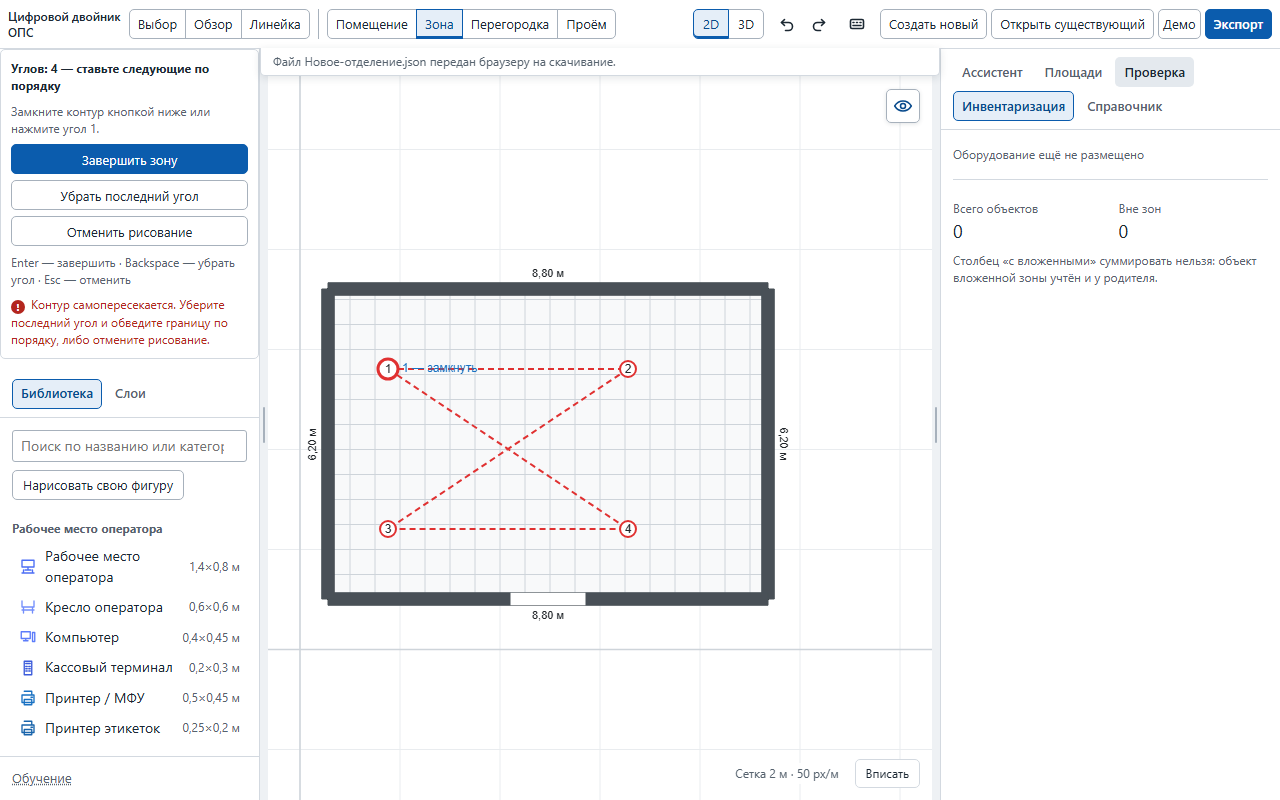
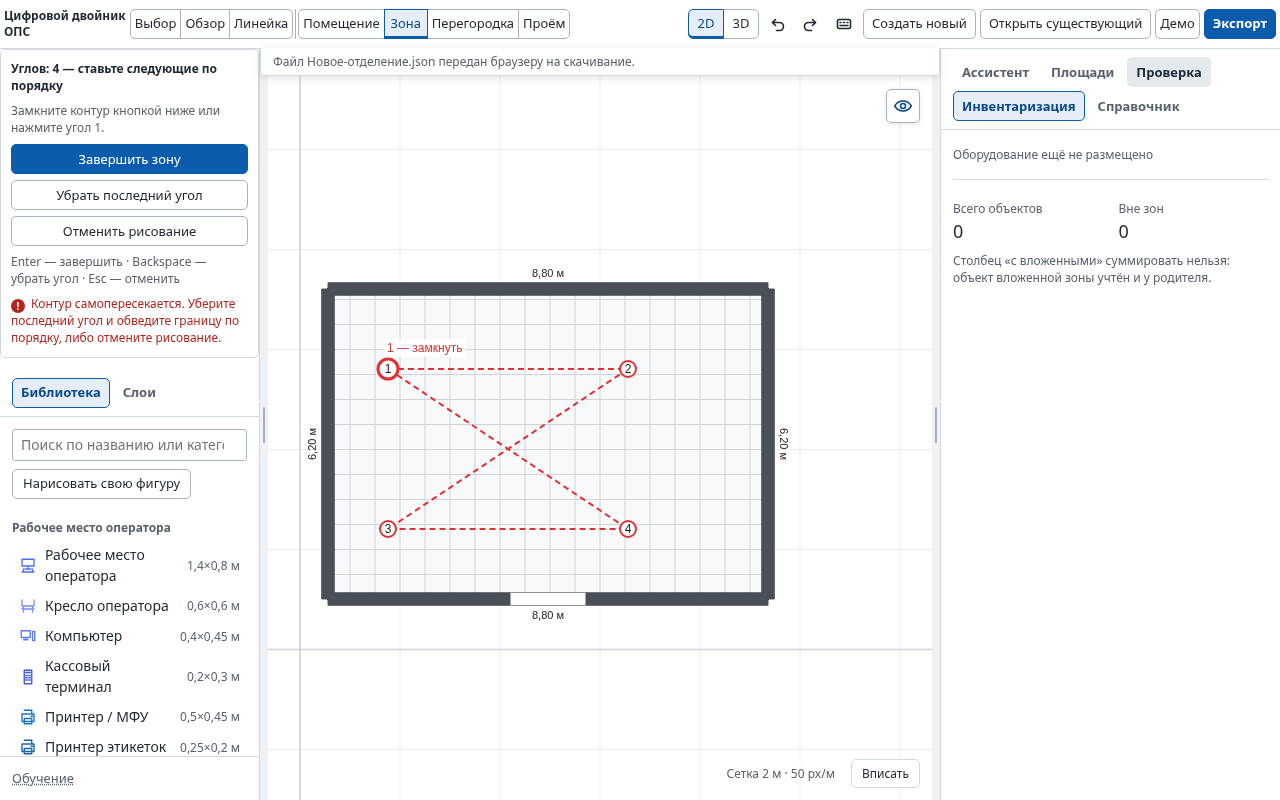
editor: Backspace вне черновика больше не удаляет выделение, подпись первого угла читаема, JSON round-trip зоны в e2e (#43)
Регрессия из ревью: перехват Backspace ограничен draft !== null — вооружённый,
но ещё не начатый инструмент зоны/помещения/фигуры не мешает удалению
выделенного объекта. Ключ сброса черновика больше не включает plan.name —
переименование плана во время рисования не роняет углы. removeLast сбрасывает
курсор вместе с опустевшим черновиком. Подпись «1 — замкнуть»/«Начало» поднята
над первым углом и получила непрозрачную плашку — раньше её перечёркивало
первое ребро контура; цвет подписи согласован с цветом контура. Добавлен
e2e-сценарий, реально сравнивающий polygon после экспорта и повторного
открытия файла (docs/verification заявлял это раньше текста в спеке); снимки
1280/1440 перезаписываются только под UPDATE_SNAPSHOTS=1.

Claude-Session: https://claude.ai/code/session_01XC1BsdQNtgS7Zdfnf1Mxm2

diff --git a/tests/e2e/zone-drawing.spec.ts b/tests/e2e/zone-drawing.spec.ts
@@ -1,11 +1,13 @@
 import { readFileSync } from 'node:fs';
 import { test, expect, exportPlan, type Page } from './fixtures';
 
-async function save(page: Page): Promise<{ zones: { polygon: number[][] }[] }> {
+async function save(page: Page): Promise<{ zones: { polygon: number[][] }[] } & { path: string }> {
   const pending = page.waitForEvent('download');
   await exportPlan(page, 'JSON');
   const file = await pending;
-  return JSON.parse(readFileSync((await file.path())!, 'utf8')) as { zones: { polygon: number[][] }[] };
+  const path = (await file.path())!;
+  const json = JSON.parse(readFileSync(path, 'utf8')) as { zones: { polygon: number[][] }[] };
+  return { ...json, path };
 }
 
 for (const width of [1280, 1440]) {
@@ -31,7 +33,11 @@ for (const width of [1280, 1440]) {
     await controls.getByRole('button', { name: 'Завершить зону' }).click();
     await expect(controls).toContainText('Контур самопересекается');
     expect((await save(page)).zones).toHaveLength(0);
-    await page.screenshot({ path: `docs/verification/2026-09-29-zone-drawing-${width}.png` });
+    // Снимок закоммичен в docs/verification: обычный прогон его не перезаписывает,
+    // обновление — по явному запросу (см. validation.spec.ts, D-315).
+    if (process.env['UPDATE_SNAPSHOTS'] === '1') {
+      await page.screenshot({ path: `docs/verification/2026-09-29-zone-drawing-${width}.png` });
+    }
     await controls.getByRole('button', { name: 'Убрать последний угол' }).focus();
     await page.keyboard.press('Enter');
     await expect(controls).toContainText('Углов: 3');
@@ -49,3 +55,41 @@ for (const width of [1280, 1440]) {
     expect((await save(page)).zones).toHaveLength(0);
   });
 }
+
+// #43, п. 1 ревью: docs/verification заявлял «JSON → повторное открытие →
+// совпадение polygon», а спека раньше только экспортировала и считала зоны.
+// Проверяется, что открытый заново экспорт даёт тот же контур, что и до сохранения
+// (как round-trip.spec.ts для объектов).
+test('зона по видимым действиям переживает файл: JSON → повторное открытие → тот же контур', async ({ page }) => {
+  await page.setViewportSize({ width: 1280, height: 800 });
+  await page.goto('/');
+  await expect(page.getByTestId('editor-canvas')).toBeVisible();
+  const click = async (x: number, y: number) => {
+    const box = await page.locator('.editor-canvas canvas').first().boundingBox();
+    if (box === null) throw new Error('Нет холста');
+    await page.keyboard.down('Alt');
+    await page.mouse.click(box.x + x, box.y + y);
+    await page.keyboard.up('Alt');
+  };
+  await page.getByRole('button', { name: 'Помещение', exact: true }).click();
+  for (const [x, y] of [[60, 240], [500, 240], [500, 550], [60, 550]]) await click(x!, y!);
+  await page.getByRole('button', { name: 'Завершить помещение', exact: true }).click();
+  await page.getByRole('button', { name: 'Зона', exact: true }).click();
+  const controls = page.getByRole('region', { name: 'Рисование контура' });
+  for (const [x, y] of [[120, 320], [360, 320], [360, 480]]) await click(x!, y!);
+  await controls.getByRole('button', { name: 'Завершить зону' }).click();
+
+  const saved = await save(page);
+  expect(saved.zones).toHaveLength(1);
+  const polygon = saved.zones[0]?.polygon;
+  expect(polygon).toHaveLength(3);
+
+  await page.reload();
+  await page.getByTestId('plan-file-input').setInputFiles(saved.path);
+  await expect(page.getByTestId('editor-canvas')).toBeVisible();
+
+  const reopened = await save(page);
+  expect(reopened.zones).toHaveLength(1);
+  // Тот же контур, не просто то же число углов: id, порядок и координаты вершин.
+  expect(reopened.zones[0]?.polygon).toEqual(polygon);
+});

diff --git a/src/features/plan-tools/use-plan-tool-controller.test.ts b/src/features/plan-tools/use-plan-tool-controller.test.ts
@@ -115,6 +115,20 @@ describe('явное завершение и исправление чернов
     hook.rerender({ typeId: 'type-b', epoch: 1 });
     expect(hook.result.current.draft).toBeNull();
   });
+  it('переименование плана во время рисования не сбрасывает углы', () => {
+    const plan = planWith([]);
+    const session: EditorSession = { tool: { kind: 'zone.draw' }, viewport: { origin: [0, 0], scale: 50 }, selection: null, preview: null, focus: null };
+    const hook = renderHook(
+      (document: PlanDocument) => usePlanToolController({ document, session, onCommand: () => ({ ok: true, value: document }) }),
+      { initialProps: plan },
+    );
+    act(() => hook.result.current.handlePointer(down([1, 1])));
+    act(() => hook.result.current.handlePointer(down([3, 1])));
+    expect(hook.result.current.draft).toHaveLength(2);
+    hook.rerender({ ...plan, name: 'Переименованный план' });
+    expect(hook.result.current.draft).toHaveLength(2);
+  });
+
   it('кнопка завершения использует прежнюю проверку и одну команду', () => {
     const { hook, click, commands } = setup({ kind: 'zone.draw' }, planWith([]));
     click([1, 1]); click([3, 1]);
@@ -142,6 +156,18 @@ describe('явное завершение и исправление чернов
     expect(commands).toHaveLength(1);
   });
 
+  it('возврат последнего угла до пустого черновика снимает и курсор рисования', () => {
+    const { hook, click } = setup({ kind: 'zone.draw' }, planWith([]));
+    click([1, 1]);
+    act(() =>
+      hook.result.current.handlePointer({ phase: 'move', point: [2, 2], shift: false, alt: false, button: 0 }),
+    );
+    expect(hook.result.current.cursor).not.toBeNull();
+    act(() => hook.result.current.removeLast());
+    expect(hook.result.current.draft).toBeNull();
+    expect(hook.result.current.cursor).toBeNull();
+  });
+
   it('Backspace убирает угол и не доходит до удаления выбранного объекта', () => {
     const { hook, click, commands } = setup({ kind: 'zone.draw' }, planWith([]));
     click([1, 1]); click([3, 1]);
@@ -161,9 +187,27 @@ describe('явное завершение и исправление чернов
     act(() => hook.result.current.removeLast());
     expect(hook.result.current.draft).toBeNull();
     window.addEventListener('keydown', deleteListener);
-    act(() => window.dispatchEvent(new KeyboardEvent('keydown', { key: 'Backspace', repeat: true, cancelable: true })));
+    const event = new KeyboardEvent('keydown', { key: 'Backspace', repeat: true, cancelable: true });
+    act(() => window.dispatchEvent(event));
     window.removeEventListener('keydown', deleteListener);
-    expect(deletes).toBe(0);
+    // Черновика больше нет: Backspace принадлежит выделению, а не рисованию.
+    expect(deletes).toBe(1);
+    expect(event.defaultPrevented).toBe(false);
+  });
+
+  it('регрессия: инструмент «Зона» вооружён, но угла ещё нет — Backspace удаляет выделение', () => {
+    const { hook } = setup({ kind: 'zone.draw' }, planWith([]));
+    expect(hook.result.current.draft).toBeNull();
+    let deletes = 0;
+    const deleteListener = () => {
+      deletes += 1;
+    };
+    window.addEventListener('keydown', deleteListener);
+    const event = new KeyboardEvent('keydown', { key: 'Backspace', cancelable: true });
+    act(() => window.dispatchEvent(event));
+    window.removeEventListener('keydown', deleteListener);
+    expect(deletes).toBe(1);
+    expect(event.defaultPrevented).toBe(false);
   });
 
   it('отказ store сохраняет контур для исправления', () => {

diff --git a/src/features/plan-tools/PlanGeometryLayer.test.tsx b/src/features/plan-tools/PlanGeometryLayer.test.tsx
@@ -205,3 +205,83 @@ describe('Enter и смена инструмента завершают выде
     expect(onSelect).not.toHaveBeenCalled();
   });
 });
+
+/**
+ * #43: подпись «1 — замкнуть» стояла справа от первого угла и её
+ * перечёркивало первое ребро контура. Проверяется то, что видит рисующий:
+ * подпись поднята над углом (а не лежит на линии ребра) и несёт
+ * непрозрачную плашку — фон, который сохраняет её читаемой, даже если
+ * ребро всё же пройдёт под ней; цвет подписи совпадает с цветом контура.
+ */
+describe('подпись замыкания первого угла (D-315)', () => {
+  const plan = demo();
+
+  function draftStartCaption(draft: [number, number][]): { label: Konva.Label; text: Konva.Text } {
+    const stage = createRef<Konva.Stage>();
+    const session: EditorSession = {
+      tool: { kind: 'zone.draw' },
+      viewport: { origin: [0, 0], scale: 48 },
+      selection: null,
+      preview: null,
+      focus: null,
+    };
+    render(
+      <Stage ref={stage} width={800} height={600}>
+        <PlanGeometryLayer
+          document={plan}
+          session={session}
+          draft={draft}
+          onCommand={() => ({ ok: true, value: plan })}
+          onSelect={() => undefined}
+        />
+      </Stage>,
+    );
+    if (stage.current === null) throw new Error('Stage не смонтировался');
+    const label = stage.current.findOne('.draft-start-caption') as Konva.Label | undefined;
+    if (label === undefined) throw new Error('подпись первого угла не найдена');
+    const text = label.findOne('Text') as Konva.Text | undefined;
+    if (text === undefined) throw new Error('текст подписи не найден');
+    return { label, text };
+  }
+
+  test('подпись поднята над первым углом, а не лежит справа на ребре 1→2', () => {
+    const [, firstY] = [0, 0];
+    const { label } = draftStartCaption([
+      [0, 0],
+      [3, 0],
+      [3, 2],
+    ]);
+    // Экранный y растёт вниз: подпись над вершиной — это отрицательный сдвиг.
+    expect(label.y()).toBeLessThan(firstY);
+  });
+
+  test('у подписи непрозрачная плашка под текстом', () => {
+    const { label } = draftStartCaption([
+      [0, 0],
+      [3, 0],
+      [3, 2],
+    ]);
+    const tag = label.findOne('Tag') as Konva.Shape | undefined;
+    if (tag === undefined) throw new Error('подложка подписи не найдена');
+    expect(tag.getAbsoluteOpacity()).toBeGreaterThan(0.5);
+  });
+
+  test('самопересекающийся контур красит подпись в цвет ошибки контура', () => {
+    const { text } = draftStartCaption([
+      [0, 0],
+      [3, 0],
+      [0, 3],
+      [3, 3],
+    ]);
+    expect(text.fill()).toBe('#E03131');
+  });
+
+  test('валидный контур красит подпись в обычный цвет черновика', () => {
+    const { text } = draftStartCaption([
+      [0, 0],
+      [3, 0],
+      [3, 2],
+    ]);
+    expect(text.fill()).toBe('#1971C2');
+  });
+});

diff --git a/src/features/plan-tools/use-plan-tool-controller.ts b/src/features/plan-tools/use-plan-tool-controller.ts
@@ -106,7 +106,9 @@ export const usePlanToolController = ({
   const [cursor, setCursor] = useState<Point | null>(null);
   const tool = session.tool;
   const kind = tool.kind;
-  const contextKey = `${kind}\u0000${tool.kind === 'shape.draw' ? tool.typeId : ''}\u0000${plan.id}\u0000${plan.name}\u0000${documentEpoch}`;
+  // `plan.name` сюда не входит: переименование плана во время рисования не
+  // должно стирать поставленные углы, документ при этом не меняется.
+  const contextKey = `${kind}\u0000${tool.kind === 'shape.draw' ? tool.typeId : ''}\u0000${plan.id}\u0000${documentEpoch}`;
   const [draftContext, setDraftContext] = useState(contextKey);
   if (draftContext !== contextKey) {
     setDraftContext(contextKey);
@@ -280,15 +282,24 @@ export const usePlanToolController = ({
     if (ringDraft !== null) closeRing(ringDraft);
   }, [closeRing, ringDraft]);
   const removeLast = useCallback(() => {
-    if (!RING_TOOLS.has(kind)) return;
-    setDraft((current) => current === null || current.length <= 1 ? null : current.slice(0, -1));
+    if (!RING_TOOLS.has(kind) || draft === null) return;
+    if (draft.length <= 1) {
+      // Опустевший черновик снимает и курсор рисования: обещанной следующей
+      // точки без первого угла больше нет (иначе он завис бы над пустым местом).
+      setDraft(null);
+      setCursor(null);
+    } else {
+      setDraft(draft.slice(0, -1));
+    }
     setNotice(null);
-  }, [kind]);
+  }, [draft, kind]);
   useEffect(() => {
     if (!RING_TOOLS.has(kind)) return undefined;
     const onKey = (event: KeyboardEvent): void => {
       if (event.key !== 'Enter' && event.key !== 'Backspace') return;
-      if (event.key === 'Enter' && ringDraft === null) return;
+      // Без черновика нет угла, который можно вернуть: Backspace принадлежит
+      // выделению (например, удалению зоны), а не вооружённому инструменту.
+      if (ringDraft === null) return;
       if (event.ctrlKey || event.metaKey || event.altKey) return;
       if (isTextTarget(event.target)) return;
       if (event.key === 'Enter' && event.target instanceof Element && event.target.closest('.drawing-controls__actions') !== null) return;
@@ -297,7 +308,7 @@ export const usePlanToolController = ({
       event.stopImmediatePropagation();
       if (event.repeat) return;
       if (event.key === 'Backspace') removeLast();
-      else if (ringDraft !== null) closeRing(ringDraft);
+      else closeRing(ringDraft);
     };
     const onDoubleClick = (event: MouseEvent): void => {
       if (ringDraft === null) return;

diff --git a/src/features/plan-tools/PlanGeometryLayer.tsx b/src/features/plan-tools/PlanGeometryLayer.tsx
@@ -16,7 +16,7 @@
  */
 
 import { useEffect, useMemo, useRef, useState } from 'react';
-import { Circle, Group, Layer, Line, Text } from 'react-konva';
+import { Circle, Group, Label, Layer, Line, Tag, Text } from 'react-konva';
 import type Konva from 'konva';
 import type { Id, Opening, PlanDocument, Point, Polygon, Ref, Wall, Zone } from '../../contracts/model';
 import { TOLERANCE } from '../../contracts/model';
@@ -658,7 +658,22 @@ export function PlanGeometryLayer({
           return <Group key={index} x={x} y={y}>
             <Circle radius={index === 0 ? 10 : 8} fill="#FFFFFF" stroke={draftInvalid ? INVALID_STROKE : DRAFT_STROKE} strokeWidth={index === 0 ? 3 : 2} />
             <Text x={-8} y={-6} width={16} align="center" text={String(index + 1)} fontSize={12} fill="#212529" />
-            {index === 0 ? <Text x={14} y={-7} text={draft.length >= 3 ? '1 — замкнуть' : 'Начало'} fontSize={12} fill={DRAFT_STROKE} /> : null}
+            {index === 0 ? (
+              // Над углом, а не справа: справа лежит первое ребро контура
+              // (1→2), и подпись без сдвига перечёркивалась им. Непрозрачная
+              // плашка — на случай, если контур всё же пройдёт под подписью
+              // на другом масштабе (та же техника, что у подсказки привязки,
+              // D-224). Цвет — как у самого контура: красный при самопересечении.
+              <Label name="draft-start-caption" x={-4} y={-30} listening={false}>
+                <Tag fill="#FFFFFF" opacity={0.9} cornerRadius={2} />
+                <Text
+                  text={draft.length >= 3 ? '1 — замкнуть' : 'Начало'}
+                  fontSize={12}
+                  fill={draftInvalid ? INVALID_STROKE : DRAFT_STROKE}
+                  padding={3}
+                />
+              </Label>
+            ) : null}
           </Group>;
         })}
         </Group>

diff --git a/docs/decisions.md b/docs/decisions.md
@@ -9,7 +9,7 @@
 | D-319 | 2026-09-29 | Довели запас стресс-теста D-316 до требуемых 20 px на Linux: у него было 15,2 px на 1280 и 13,5 px на 1460 (Windows-прогон Максима зелёный, Linux-прогон команды — нет). Убрано ещё по 1 px горизонтального поля с каждой стороны у шести подписанных кнопок инструментов (`.shell__bar .toolbar__button`, `padding-inline: 5px → 4px`, ≤1500 px). Побочный эффект того же D-316: правило `min-width: 44px` в этом селекторе новое для main и перебивает `width: 30px`/`min-width: 30px` у `.toolbar__button--icon` — иконка «Удалить перегородку» на ≤1500 px стала 44×30 px вместо 30×30, «Зона» — 44 px вместо естественных 40 px; моя правка их ширину дальше не меняет (зона клика у обеих кнопок шире, чем на main, — не вред). Высота всех кнопок инструментов не менялась и остаётся 30 px, как на main. Замер (свободная колонка `.shell__bar`, худшее состояние, стресс с увеличенным межбуквенным интервалом, Linux): 1280 — 15,2 → 27,3 px; 1460 — 13,5 → 25,6 px; `overflow` остаётся ≤ 0 на всех шести ширинах | Из трёх вариантов задачи (зазоры/поля групп; иконка вместо текста у второстепенного действия по D-254; «Демо» в меню «Открыть…») зазор ещё на 1 px — наименее заметная правка: подписи кнопок целы, интерактивная модель не меняется, «Демо» остаётся отдельной видимой кнопкой; 1 px по каждой стороне у 6 кнопок даёт 12 px — с запасом закрывает оба разрыва (4,8 и 6,5 px) без визуально ощутимого сжатия | Уменьшить `--control-h`/порог 44 px — запрещено брифом задачи; «Демо» иконкой или в меню «Открыть…» — меняет находимость и обучение (`onboarding/tour.ts`) ради небольшого разрыва, который закрывается полем; снизить порог `MIN_SLACK_PX` — тест перестал бы значить «запас для другого шрифта» |
 | D-318 | 2026-09-29 | Нестабильные под нагрузкой browser-сценарии #46 сокращают дублирующие взаимодействия: режим формы Enter/смена инструмента проверяется отдельным коротким тестом, а сквозной путь «правка формы → тип → объект → файл» остаётся целым; три переноса вида используют два промежуточных pointermove вместо десяти при том же конечном смещении; все числа сводки сравниваются точно, фильтрация проверяется на нескольких разных типах | Linux A/B команды показал, что таймауты `custom-shape`, `focus`, `inventory` появляются и на чистом main при load 13–21: длительны браузерные жесты и повторные клики, а не расчёт формы или инвентаризации. Сокращение не прячет отказ повышением 30-секундного лимита и сохраняет функциональные проверки | Увеличить timeout без разбора; убрать сквозной путь сохранения/открытия; проверять только сумму сводки без точных чисел каждого типа |
 | D-316 | 2026-09-29 | На ширинах до 1500 px шапка отдаёт больше места кнопкам: сокращены боковые поля, межгрупповые зазоры и внутренние поля компактных инструментов; кнопки инструментов на этих ширинах получают новый пол `min-width: 44px` (в main его не было) — расширяет иконку «Удалить перегородку» с 30×30 до 44×30 px и «Зону» с natural ~40 до 44 px, шире область нажатия, высота 30 px не меняется. Контроль добавляет 0,4 px межбуквенного интервала к кнопкам, чтобы воспроизвести давление более широкого системного шрифта, и требует свободную колонку не уже 20 px при 1280, 1339, 1340, 1460 и 1500 px | На Linux после появления «Демо» шапка выходила за окно на 13 px; на Windows обычный шрифт скрывал ошибку. Зазор даёт запас для отличий шрифтов, а крупные области нажатия и названия остаются | Уменьшить шрифт или скрыть «Демо»; считать зелёный Windows-прогон доказательством исправления Linux без проверки командой |
-| D-315 | 2026-09-29 | Рисование контура сопровождается пронумерованными углами и управлением в левой панели: завершение, возврат угла, отмена. Старые жесты сохраняются; отказ store оставляет черновик. Новые методы контроллера остаются в feature, общие contracts не меняются | Пользователь не понимал красный черновик; кнопки поверх холста перехватывали точки в старых сценариях, поэтому перенесены в боковую панель. Enter на кнопке выполняет её действие, Backspace черновика не удаляет выделение | Незаметное сохранение самопересечения; кнопки поверх рабочей области; подмена полигона прямоугольником; merge до запрошенного пользователем ревью тиммейтами |
+| D-315 | 2026-09-30 (правки 2026-09-29) | Рисование контура сопровождается пронумерованными углами и управлением в левой панели: завершение, возврат угла, отмена. Старые жесты сохраняются; отказ store оставляет черновик. Новые методы контроллера остаются в feature, общие contracts не меняются. По ревью тиммейта перед снятием draft: (1) `Backspace` перехватывается в capture только пока `draft !== null` — вооружённый, но ещё не начатый инструмент зоны/помещения/фигуры больше не блокирует удаление выделения; (2) ключ сброса черновика — `plan.id` + `documentEpoch`, без `plan.name`: переименование плана во время рисования углы не стирает; (3) `removeLast` при опустевшем черновике сбрасывает и курсор рисования, а не только точки; (4) подпись «1 — замкнуть»/«Начало» у первого угла поднята над вершиной и получила непрозрачную плашку — прежде её справа перечёркивало первое ребро контура; цвет подписи, как и цвет контура, красный при самопересечении | Пользователь не понимал красный черновик; кнопки поверх холста перехватывали точки в старых сценариях, поэтому перенесены в боковую панель. Enter на кнопке выполняет её действие, Backspace черновика не удаляет выделение — но только пока черновик есть: без него Backspace принадлежит удалению выбранной зоны, как до этой задачи | Незаметное сохранение самопересечения; кнопки поверх рабочей области; подмена полигона прямоугольником; merge до запрошенного пользователем ревью тиммейтами; перехватывать Backspace для любого вооружённого инструмента независимо от черновика (регрессия удаления выделения) |
 | D-313 | 2026-09-29 | Задача #49, решение участника: **правило двух часов**. «Движение по задаче N» — самое позднее из `updated_at` задачи, `updated_at` её открытых MR (`source_branch` начинается с `worktree-<N>-`) и даты последнего коммита в ветках `worktree-<N>-*` через API веток GitLab. `take` чужой задачи с движением < 2 ч — отказ с временем последнего движения и моментом, когда можно перехватить; > 2 ч — перехват: исполнитель меняется на меня, в задаче комментарий «Перехвачена … без движения с <UTC> (<ч мин>) … Ветка: … — продолжаю её», подсказка продолжать существующую ветку. Чужая задача в той же `area:` держит область, только если по ней было движение < 2 ч. `board` показывает кандидатов. Перехват — только при возрасте строго больше порога (ровно 2 ч — ещё отказ). Любое «не знаю» — отказ, а не перехват: ошибка API, пустое тело, не массив, больше 20 страниц, неразобранная дата. Ветка засчитывается задаче, только если её последний коммит не раньше создания задачи — ветки этапа 1 `worktree-<поток>-…` не выдаются за ветки задач #1–#5. Порог — `ISSUES_STALE_HOURS` (по умолчанию 2), «сейчас» для тестов — `ISSUES_NOW` | Работа стояла часами за чужим исполнителем: #44 оркестратор перехватывал руками через API (последнее движение 17:10 UTC, в 20:05 — 2 ч 55 мин). Движение считается до своего PUT и комментария, поэтому свой перехват не делает задачу «свежей» в момент проверки. Ветки берутся с сервера, а не из локального fetch — у перехватчика её может не быть | Только `updated_at` задачи (коммиты и MR без комментария его не трогают — живую работу приняли бы за брошенную); локальный `git log origin/…` (зависит от fetch); перехват без комментария или с новой веткой вместо продолжения чужой; отдельная команда `steal` вместо `take` (два пути для одного действия) |
 | D-312 | 2026-09-29 | Находка «нет инвентарного номера» — `OBJECT_MISSING_INVENTORY_NUMBER` рядом с `OBJECT_DUPLICATE_INVENTORY_NUMBER` в `validatePlan` (коды модуля, не контракт): предупреждение на каждый физический объект, у типа которого в справочнике объявлен атрибут `inventoryNumber`, а номер пуст (нет, `null`, пробелы, не строка и не число). Сообщение называет объект: «У объекта «…» нет инвентарного номера: впишите номер с ярлыка предмета в карточке.», ссылка и подсветка — след объекта. План, где номера нет ни у одного объекта, реестра не ведёт — находок нет | Специалист по инвентаризации видит предметы, которых нет в реестре: копии (D-311), стёртый в карточке номер, файлы без номеров. Предупреждение, как у дубля (D-266): геометрия цела, номер вводит человек. Без «тихого» правила пример организаторов получил бы 9 одинаковых строк поверх своих геометрических ловушек — тестового набора жюри. Демо-планы находок не получают (у всех 53/54 объектов номер есть): `before` 1/2 → `after` 0/0 не меняется | Ошибка вместо предупреждения; требовать номер у нефизических отметок (розетка, датчик) — это не инвентарь на полу, а их номер в демо — удобство, не обязанность; одна сводная находка «N объектов без номера» вместо строки на объект (не видно, какие) |
 | D-311 | 2026-09-29 | Копия (`Ctrl+C`/`Ctrl+V`, `Ctrl+D`) по-прежнему получает пустой номер (D-266 в силе), свежий номер серии ей не выдаётся; пустоту теперь называет находка D-312. Номер выдаётся там, где объект создаётся из библиотеки (клик и перетаскивание — одна точка `use-equipment-tool-controller.ts`) | Копия — это «такой же предмет» на время расстановки; реестровый номер ей даёт человек, когда предмет существует. Поведение пустого номера закреплено сценарием `tests/e2e/group-edit.spec.ts` (вставка → «Инвентарный номер» пуст) и D-243/D-266; менять его в том же пакете значило бы переписать чужой сценарий. Вариант ассистента («Вставить в план», `src/app/App.tsx` → `candidateObjectForInsert` в `src/domain/advice`) и «Своя фигура» (`src/features/plan-tools`) вне границ пакета: там номер пока не выдаётся, находка D-312 это показывает — подключение `withInventoryNumber` описано в отчёте #11 | Давать копии следующий номер серии (одна логика «новый объект — новый номер», но меняет закреплённое D-266 поведение и чужой e2e); сохранять номер оригинала (дубль — D-266) |

diff --git a/docs/tz-compliance.md b/docs/tz-compliance.md
@@ -37,7 +37,7 @@
 | Р1 | Создать цифровой план условного помещения (границы) | Инструменты «Помещение», «Перегородка» и «Проём» в `src/features/plan-tools` (точки с привязкой к вершинам плана, стенам и сетке 0,5 м, `Alt` отключает — D-209; до клика под курсором видно, за что зацепится точка по каждой оси — D-224), команды `room.set`/`wall.put`/`opening.put`, ручки вершин в `PlanGeometryLayer` (D-070), умолчания перегородки и проёма в `wall-draft.ts` (D-103); наружные стены пересобираются по контуру, перегородки остаются (D-134), а пропавший проём объясняется строкой в момент жеста (D-182); проём — фиксированной ширины: на плане его можно только двигать вдоль стены (одна ручка по центру), ширину меняет только поле карточки, и `opening.put` отказывает шире стены (`OPENING_TOO_WIDE`); `Enter` у выделенного проёма и смена активного инструмента завершают его — снимают выделение (D-267) | `tests/e2e/plan-tools.spec.ts`: контур рисуется и правится, вершина зоны у угла ложится на грань стены, с `Alt` — куда кликнули (D-209; `snap.test.ts` 25); маркер называет цель до клика — «X: зона · Y: зона» у вершины зоны, «стена» у стены, «сетка 0,5 м» вдали, с `Alt` маркера нет, и сохранённый файл после наведений тот же (D-224); шаг привязки виден на полу помещения сеткой 0,5 м, обрезанной по контуру (D-230); контур правится под `Ctrl` — протяжка ребра вытягивает выступ, клик по вершине удаляет её (D-247); перегородка создаётся двумя кликами, проём — кликом по ней, клик мимо стены объясняется строкой, одно «Отменить» на жест; `wall-draft.test.ts`: 16 проверок умолчаний и отказов; `room-walls.test.ts`: 17 проверок; `use-plan-tool-controller.test.ts`: пропавший вход назван строкой, уцелевший — молчанием; e2e: свой L-контур поверх коробки даёт 6 стен и ни одной старой, вход на своём ребре, проём ставится на новую стену, два «Отменить» возвращают всё, а убранная двойным кликом вершина уносит вход со строкой «Проёму не нашлось места»; проём — фиксированной ширины: поставлен → ширина по умолчанию → `Enter` → нет выделения и карточки; ширина через карточку → в JSON новое значение (D-267); `commands.test.ts`: ширина больше длины стены отклоняется у поля `width_m`; `opening-focus.test.ts` (5 проверок) и блок в `PlanGeometryLayer.test.tsx` (7): `Enter` и смена инструмента снимают выделение проёма, активный черновик контура побеждает | ✅ (U03): план рисуется в редакторе с нуля — границы, перегородки и проёмы |
 | Р1а | План именуется из редактора; файл именуется по плану | Карточка помещения (`PropertiesPanel`, клик по полу): `plan.rename` и `room.setCeiling` (D-152); `planFileName` из названия | `properties.spec.ts`: «ОПС 115534 Тестовое» → `ОПС-115534-Тестовое.json`, потолок 3,4 м поднимает четыре наружные стены, пустое имя отклонено у поля; `PropertiesPanel.test.tsx`: посимвольный ввод с пробелом | ✅ |
 | Р2 | Загрузить и отобразить сохранённый план | `decodePlan` в `src/persistence/codec.ts`; кнопка «Открыть» принимает оба формата через `detectPlanFormat`/`readPlanFile` в `src/persistence/format.ts` (D-086) | `codec.test.ts`: `minimal`/`nested`/`rotated`/`collision` открываются; обрезанный JSON, не-объект, будущая версия и >5 MiB отклоняются своими кодами; `format.test.ts`: наши фикстуры, `example_plan.json` и мусор различаются; `tests/e2e/files.spec.ts`: сырой `example_plan.json` открывается кнопкой — 12 объектов, зоны `z_client`/`z_back`, карточка `eq_kiosk` | ✅ (IO01+IO03): файл открывается и отображается в браузере; оба демо-плана — E01; прямое открытие из обучения и меню «Демо» (D-304), 4 целевых e2e, [приёмка и ограничение UI gate](verification/2026-09-29-open-demo.md) |
-| Р3 | Создавать, изменять, удалять функциональные зоны | Инструмент «Зона» (точки и ручки вершин с привязкой, D-209/D-210), команды `zone.put`/`zone.delete`, ручки вершин и кнопка «Удалить зону» в панели инструментов; поле «Внутри зоны» в карточке свойств (U06), вложенность новой зоны — из геометрии (D-073/D-246), а пересечение соседних зон без вложенности даёт одну находку; имя зоны на холсте окрашено по уровню вложенности — корень, вложенная, вложенная во вложенную (D-250) | `tests/e2e/plan-tools.spec.ts`: зона, нарисованная внутри другой, вложена в неё; вершина перетаскивается, клик по ребру добавляет вершину, двойной клик убирает, самопересечение отклоняется и план не меняется, зона удаляется и возвращается «Отменить»; клик у вершины вершину не добавляет (D-099), Backspace удаляет зону наравне с Delete, зона на скрытом слое не удаляется (D-100); `delete-key.test.ts`, `vertex-edit.test.ts`; `commands.test.ts`: удаление зоны переподчиняет детей и ставит родителя новой зоны; `validation.test.ts` и e2e проверяют одну находку перекрытия; `zone-name-color.test.ts` и `tests/e2e/zone-names.spec.ts` — разные цвета имён по уровням на `demo/before.json`, `example_plan.json` и третьем уровне | ✅ (U03+S01+U06): создание, изменение контура, смена родителя и удаление доступны из интерфейса |
+| Р3 | Создавать, изменять, удалять функциональные зоны | Инструмент «Зона» (точки и ручки вершин с привязкой, D-209/D-210), команды `zone.put`/`zone.delete`, ручки вершин и кнопка «Удалить зону» в панели инструментов; поле «Внутри зоны» в карточке свойств (U06), вложенность новой зоны — из геометрии (D-073/D-246), а пересечение соседних зон без вложенности даёт одну находку; имя зоны на холсте окрашено по уровню вложенности — корень, вложенная, вложенная во вложенную (D-250); рисование контура понятно без знания клавиш: пронумерованные углы, первая точка выделена как место замыкания, явные «Завершить», «Убрать последний угол» и «Отмена» в левой панели, Backspace возвращает угол только пока контур не завершён и не перехватывает удаление выделения без черновика, переименование плана рисование не сбрасывает (задача #43, D-315) | `tests/e2e/zone-drawing.spec.ts` (#43, D-315): без знания Enter/двойного клика — только видимые кнопки; самопересечение остаётся черновиком с красной подписью «Контур самопересекается», «Убрать последний угол» чинит без потери прогресса, «Завершить зону»/«Отменить рисование» — по одной команде и одной отмене на весь жест; отдельный сценарий проверяет round-trip: JSON → повторное открытие → тот же `polygon`; `tests/e2e/plan-tools.spec.ts`: зона, нарисованная внутри другой, вложена в неё; вершина перетаскивается, клик по ребру добавляет вершину, двойной клик убирает, самопересечение отклоняется и план не меняется, зона удаляется и возвращается «Отменить»; клик у вершины вершину не добавляет (D-099), Backspace удаляет зону наравне с Delete, зона на скрытом слое не удаляется (D-100); `delete-key.test.ts`, `vertex-edit.test.ts`; `commands.test.ts`: удаление зоны переподчиняет детей и ставит родителя новой зоны; `validation.test.ts` и e2e проверяют одну находку перекрытия; `zone-name-color.test.ts` и `tests/e2e/zone-names.spec.ts` — разные цвета имён по уровням на `demo/before.json`, `example_plan.json` и третьем уровне | ✅ (U03+S01+U06): создание, изменение контура, смена родителя и удаление доступны из интерфейса |
 | Р4 | Создавать, изменять, удалять слои | команды `layer.put` / `layer.delete`, панель `src/features/layers/LayersPanel.tsx` | `commands.test.ts`: последний слой не удаляется, содержимое переносится, запертый слой отклоняет правку; `layers.spec.ts` в браузере: создание, имя, порядок стрелками, скрытие, замок, удаление с переносом и всё это переживает сохранение и повторное открытие; D-275: под «Основной» — «Напольные / Потолочные объекты (N)» со своими флажками, скрытая группа не рисуется и не выбирается, файл не меняется — `object-mount.test.ts`, `LayersPanel.test.tsx`, `layers.spec.ts` «D-275…» | ✅ (S01+U05): 5 сценариев в браузере, 10 мутаций поймано |
 | Р4а | Объект узнаваем на плане без клика | Подпись объекта на холсте (`object-label.ts`, D-154): название по центру следа на бледной плашке, одна или две строки, у мелких объектов подписи нет до приближения; перенос и обрезка длинного названия — по словам, не посимвольно (D-216); подпись имени зоны — отдельным, более приглушённым и крупным начертанием, чтобы не спорить с подписью объекта на пёстрой заливке, и уходит от объекта, занявшего её обычное место (`zoneLabelAnchor`, D-216) | `object-label.test.ts` 5/5; `zone-label.test.ts` 13/13 (6 мутаций, 0 выживших); `equipment.spec.ts` «объект подписан на холсте»: пиксели текста внутри следа > 30, без подписи — 0; снимки состояния «после» 1440×900 на `demo/before.json` — `docs/verification/ui-2026-09-20-labels/` | ✅ |
 | Р5 | Добавлять оборудование из библиотеки объектов | `LibraryPanel` получает каталог текущего документа (D-097), в том числе нового типа из открытого файла; под инструментом установки клик по видимому объекту того же типа или в 8 px от его повёрнутого следа выбирает существующий без команды и дубля, дальше допуска ставит новый (D-234) | `catalog-extension.spec.ts`: новый тип появляется в библиотеке и ставится на холст без правки кода; `placement-pick.test.ts`: внутри/рядом при двух масштабах, скрытый слой, другой тип и верхний объект; `equipment.spec.ts`: повторный клик и клик в 7 px не меняют число объектов, дальше 8 px создаёт следующий | ✅ для загрузки нового типа и защиты от случайного дубля; полноту всех категорий отдельно проверяет E02 |

diff --git a/docs/verification/2026-09-29-zone-drawing.md b/docs/verification/2026-09-29-zone-drawing.md
@@ -25,3 +25,29 @@ MR остаётся draft до проверки командой. Preview вет
 ## Синхронизация с командой
 
 После merge main fce8037 (00a1212): 1630 unit passed / 1 skipped; typecheck/lint/build exit 0; полные затронутые zone-drawing + plan-tools + shell + custom-shape — 41 passed (1,0 мин), включая финальный JSON round-trip 1280/1440. Конфликты только в HANDOFF/decisions: принята новая доска Issues, записи команды сохранены, собственное решение стало D-315 (пакеты камеры и сравнения заняли старые номера). Preview 5436 отсутствовал по CIM/HTTP, поэтому запущен новый собственный сервер, затем выполнен прогон; пользовательский 5433 не затронут. Полный UI skill gate по-прежнему не выполнен; ответ команды на ревью ещё не получен.
+
+## Ревью тиммейта и правки 30.09.2026
+
+Тиммейт (человек) прогнал diff-only ревью: блокеров не нашёл, но вердикт «человеку» — нужна ручная перепроверка понятности жеста, не заменяется зелёными e2e. До неё закрыты пункты его чек-листа:
+
+- `git merge origin/main` (7646467): конфликт только в `docs/decisions.md`, обе стороны сохранены, порядок по убыванию номера (D-319, D-318, D-316, D-315, D-313…); `src/app/styles.css` слился сам.
+- **Регрессия Backspace** (п. 4): при вооружённом, но ещё не начатом инструменте зоны/помещения/фигуры `Backspace` перехватывался в capture с `stopImmediatePropagation` даже без черновика — удаление выделенной зоны переставало работать. Воспроизводящий тест сначала красный (`use-plan-tool-controller.test.ts`: «регрессия: инструмент «Зона» вооружён, но угла ещё нет…»), затем перехват ограничен условием `ringDraft === null` перед `preventDefault`/`stopImmediatePropagation`. Пятый шаг существующего теста «Backspace убирает угол…» тоже переоформлен: он раньше закреплял этот же баг (`deletes === 0` при пустом черновике), теперь закрепляет исправленное поведение.
+- **Ключ сброса черновика** (п. 5): убран `plan.name` из ключа — остаются `plan.id` и `documentEpoch`; переименование плана во время рисования углы больше не роняет. Новый тест «переименование плана во время рисования не сбрасывает углы».
+- **`removeLast` при опустевшем черновике** (п. 6): теперь сбрасывает и `cursor`, а не только точки. Новый тест «возврат последнего угла до пустого черновика снимает и курсор рисования».
+- **Подпись «1 — замкнуть»** (п. 3): `PlanGeometryLayer.tsx` — подпись первого угла поднята над вершиной (`Konva.Label`/`Tag`/`Text`), получила непрозрачную белую плашку (та же техника, что у подсказки привязки, D-224) и цвет, согласованный с состоянием контура (`DRAFT_STROKE`/`INVALID_STROKE`). Раньше она стояла справа от угла и её перечёркивало первое ребро контура. Четыре новых теста в `PlanGeometryLayer.test.tsx` (позиция, плашка, цвет при самопересечении, цвет при валидном контуре).
+- **Round-trip в e2e** (п. 1): `docs/verification/2026-09-29-zone-drawing.md` (эта запись) утверждал «JSON → повторное открытие → совпадение polygon», а `tests/e2e/zone-drawing.spec.ts` только экспортировал и считал зоны. Добавлен отдельный сценарий «зона по видимым действиям переживает файл: JSON → повторное открытие → тот же контур» — рисует зону, экспортирует, перезагружает страницу, открывает экспортированный файл через `plan-file-input` и сравнивает `polygon` (как в `round-trip.spec.ts`).
+- **Перезапись снимков** (п. 2): `page.screenshot` для `2026-09-29-zone-drawing-{width}.png` теперь только под `UPDATE_SNAPSHOTS=1` — тот же приём, что в `validation.spec.ts`. Обычный прогон больше не трогает закоммиченные PNG (проверено: `git status` пуст после прогона без флага).
+- **`docs/tz-compliance.md`** (п. 7): строка Р3 («Создавать, изменять, удалять функциональные зоны») дополнена описанием понятного рисования и ссылкой на `tests/e2e/zone-drawing.spec.ts` + D-315.
+- **D-315**: обновлено той же строкой (без новой записи — решение ещё не влито, это его собственная правка перед приёмкой) — добавлены все четыре фикса выше и отвергнутый вариант «перехватывать Backspace для любого вооружённого инструмента независимо от черновика».
+- Финальные снимки 1280/1440 перегенерированы `UPDATE_SNAPSHOTS=1` после правки подписи угла — видно приподнятую подпись с плашкой.
+
+### Проверки после правок
+
+- `npm run typecheck && npm run lint && npm test && npm run build`: typecheck/lint/build — exit 0; `npm test` — 1637 passed / 1 skipped (114 файлов), включая 52 теста `use-plan-tool-controller.test.ts` (было 49) и 14 тестов `PlanGeometryLayer.test.tsx` (было 10).
+- `DEV_PORT=5395 CI=1 npx playwright test tests/e2e/zone-drawing.spec.ts tests/e2e/plan-tools.spec.ts tests/e2e/shell.spec.ts tests/e2e/custom-shape.spec.ts tests/e2e/round-trip.spec.ts --workers=1 --retries=0`: 50 passed (2,2 мин), включая новый round-trip зоны.
+- `bash .claude/hooks/check-secrets.sh`: чисто.
+- Мутации на п. 2–3 (Backspace-регрессия и ключ сброса черновика), 3 штуки, каждая внесена и откачена по отдельности: (а) убрать условие `ringDraft === null` в `onKey` — красными стали регрессионный тест, пятый шаг «Backspace убирает угол…» и «Enter без черновика не перехватывается» (3 теста); (б) вернуть `plan.name` в `contextKey` — красным стал «переименование плана… не сбрасывает углы»; (в) поменять `draft.length <= 1` на `draft.length < 1` в `removeLast` (не срабатывает на последнем угле) — красными стали «возврат последнего угла до пустого черновика снимает и курсор» и «Backspace убирает угол и не доходит до удаления выбранного объекта» (2 теста). Все три мутации убиты, выживших нет.
+
+Полный `npm run test:e2e` — перед финальным push (после этого блока правок код не менялся). UI skill gate по-прежнему fallback: инструмента Skill нет, применены только сами Playwright-сценарии и просмотр снимков — accessibility-scan/inspect и web-design-guidelines не запускались.
+
+Draft MR не снимается: нужна ручная перепроверка понятности жеста человеком, как и было указано ревью.
